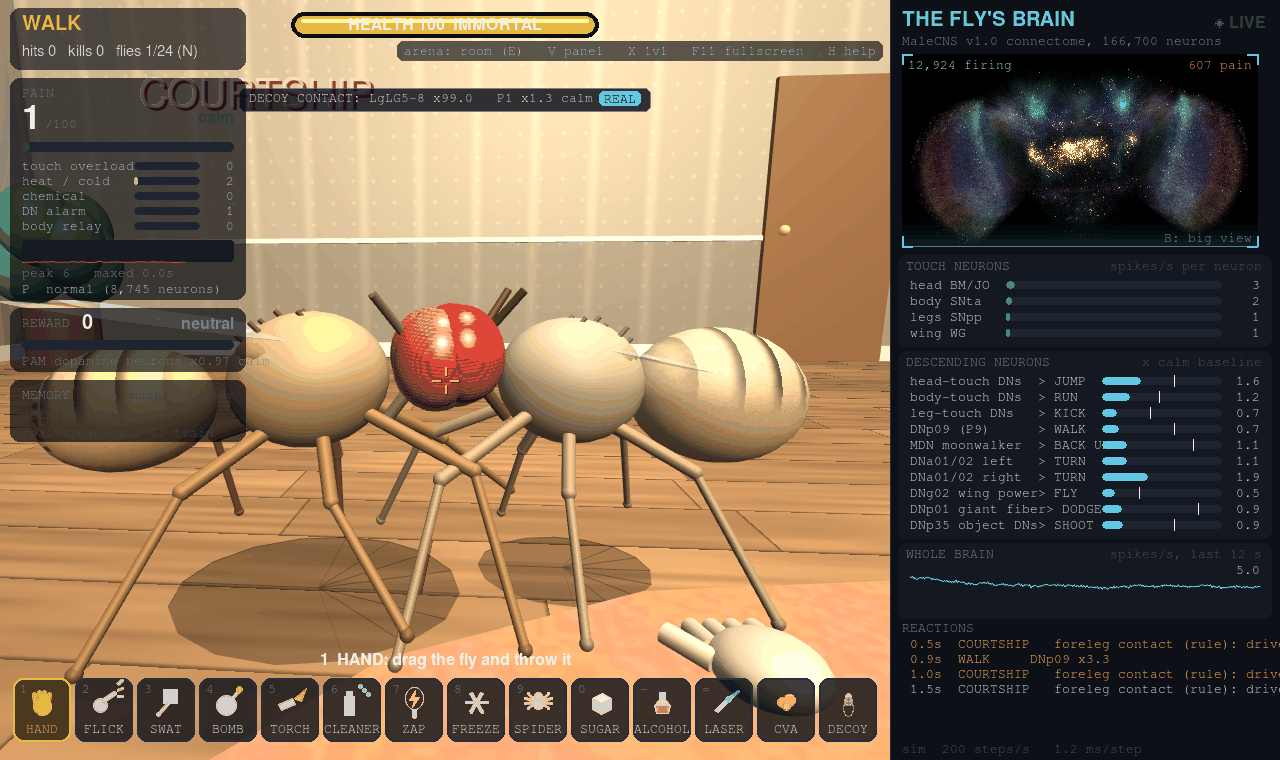
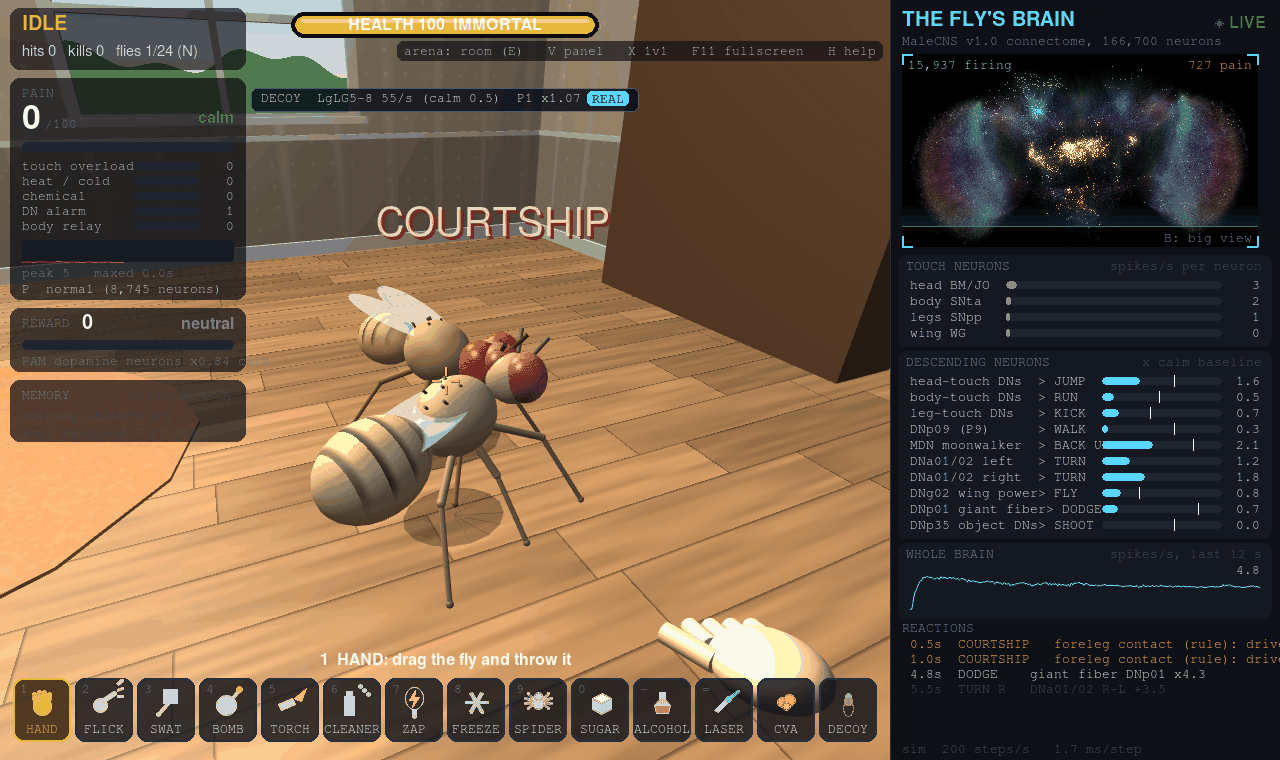
review(2.11): honest contact readout, a decoy screenshot that shows the decoy
- The contact HUD divided LgLG5-8's rate by a 0.5 Hz floor; they are all
  but silent at rest, so any contact read "x99". It now shows their rate
  against calm (e.g. "55/s (calm 0.5)") and P1 as a multiple of calm, and
  is short enough not to run under the pain panel.
- The "decoy" screenshot scene moved the decoy onto the fly's head every
  frame, so the two bodies overlapped into one shape and the caption ("a
  fly walking into a decoy") wasn't what happened. The decoy is now put
  down once beside the fly's head, within foreleg reach, and shot from the
  README's usual distance; docs/decoy.png regenerated.
- README: the hand's pick-up/throw/right-click remove, and what clears
  decoys.
- CHANGES_GEMINI_2.11.md dropped from the tree (it stays in Gemini's
  commit; the PR has the reviewed account).

diff --git a/tools/make_screenshots.py b/tools/make_screenshots.py
@@ -317,52 +317,30 @@ scene("paths", "The path tracer in the big brain view (B): the strongest paths f
 
 
 def _decoy_setup(g):
+    """One decoy on the floor beside the fly's head, within its forelegs' reach; she stays where she is put."""
     g.set_setting("brain.immortal", True, save=False)
     fly = g.flies[0].fly
     fwd = fly.p[k2.HEAD] - fly.p[k2.THX]
     fwd[1] = 0.0
     norm = float(np.linalg.norm(fwd))
-    if norm > 1e-4:
-        fwd /= norm
-    else:
-        fwd = np.array([1.0, 0.0, 0.0])
-    dp = fly.p[k2.HEAD] + fwd * 0.22
+    fwd = fwd / norm if norm > 1e-4 else np.array([1.0, 0.0, 0.0])
+    side = np.array([-fwd[2], 0.0, fwd[0]])
+    dp = fly.p[k2.HEAD] + fwd * 0.12 + side * 0.28           # beside its head, facing it, bodies apart
     dp[1] = kick3d.STAND3
-    yaw = float(math.atan2(-fwd[2], -fwd[0]))
-    g.decoys3 = [{"p": dp, "v": np.zeros(3), "landed": True, "yaw": yaw}]
+    g.decoys3 = [{"p": dp, "v": np.zeros(3), "landed": True, "yaw": float(math.atan2(-side[2], -side[0]))}]
 
 
 def _decoy_every(game, t):
     fly = game.flies[0].fly
     dec = getattr(game, "decoys3", None)
-    if not dec:
-        return
-    fwd = dec[0]["p"] - fly.p[k2.THX]
-    fwd[1] = 0.0
-    dist = float(np.linalg.norm(fwd))
-    if dist > 0.01:
-        fwd /= dist
-    if dist > 0.35:
-        dec[0]["p"][:] = fly.p[k2.HEAD] + fwd * 0.22
-        dec[0]["p"][1] = kick3d.STAND3
-    dec[0]["yaw"] = float(math.atan2(-fwd[2], -fwd[0]))
-
-    mid = 0.5 * (fly.p[k2.THX] + dec[0]["p"])
-    side = np.array([-fwd[2], 0.0, fwd[0]])
-    cam_pos = mid + side * 0.95 - fwd * 0.15
-    cam_pos[1] = 0.55
-    p = game.player
-    p.pos[:] = (cam_pos[0], cam_pos[2])
-    p.eye_h = cam_pos[1]
-    d = mid - p.eye
-    p.yaw = math.atan2(d[2], d[0])
-    p.pitch = float(np.clip(math.atan2(d[1], math.hypot(d[0], d[2])), -1.4, 1.4))
+    target = (fly.p[k2.THX] + dec[0]["p"]) / 2 if dec else fly.p[k2.THX]
+    look_at(game, target, 1.6, math.pi / 2 + 0.4, 1.2)
 
 
-scene("decoy", "A fly walking into a decoy female in the room: foreleg contact drives its LgLG5-8 taste neurons",
-      arena="room", steps=[(0.0, _decoy_setup)],
-      every=_decoy_every, shot_at=4.0,
-      ready=lambda g: getattr(g.flies[0].fly, "decoy_contact_until", 0) > g.clock.now, timeout=10.0)
+scene("decoy", "A decoy female dropped next to the fly: while its forelegs touch her, the HUD shows its LgLG5-8 taste "
+               "neurons and P1",
+      arena="room", steps=[(0.0, _decoy_setup)], every=_decoy_every, shot_at=0.6,
+      ready=lambda g: getattr(g.flies[0].fly, "decoy_contact_until", 0) > g.clock.now, timeout=12.0)
 
 
 scene("portrait", "Close-up of the fly model itself (not used in the README; for checking the model after a change)",

diff --git a/kickthefly/game/kick_the_fly.py b/kickthefly/game/kick_the_fly.py
@@ -5854,9 +5854,10 @@ class Game:
     def _draw_decoy_contact_hud(self, surf: pygame.Surface, now: float) -> None:
         slot = self.flies[self.focus]
         br = slot.brain
-        grn_x = br.lglg_level()
+        # LgLG5-8 are all but silent at rest, so a multiple of calm is meaningless (any contact read "x99"): their rate
+        # in spikes/s against calm; P1 fires at rest, so its multiple of calm is fine
         p1_x = br.p1_level()
-        txt = f"DECOY CONTACT: LgLG5-8 x{grn_x:.1f}   P1 x{p1_x:.1f} calm"
+        txt = f"DECOY  LgLG5-8 {br.lglg_fast:.0f}/s (calm {br.lglg_base:.1f})  P1 x{p1_x:.2f}"
         rendered = self.f_small.render(txt, True, (230, 230, 240))
         chip_pad = 48
         total_w = rendered.get_width() + chip_pad + 20

diff --git a/README.md b/README.md
@@ -111,7 +111,7 @@ backends, the Python API and the Lab's optional NWB export.
 - **Brain search and path tracer (new in 2.9):** in the big brain view, search any neuron by type, instance or body ID, then trace the strongest paths (up to 3 synapses) between two neurons and watch live spikes run along them.
 - **Gamepad (new in 2.9, 3D):** sticks walk and look, the right trigger uses the tool, bumpers or a tool wheel (hold Y) pick tools. Rebind everything in Settings > Controls.
 - **cVA pheromone tool (new in 2.10):** puffs the male pheromone cVA, driving the fly's DA1 olfactory receptor neurons (the Or67d cVA sensors, 204). The next two stages are validated as activation: DA1 projection neurons (x2.58) and their lateral horn / aSP targets (x2.22). Nothing in play reads a cVA behavior from them; the puff's visible cloud, reach and strength are game rules.
-- **Decoy female (new in 2.10):** drops a female-shaped decoy (a game rule body; three at most). A fly's forelegs touching it drive LgLG5-8, the foreleg taste neurons MaleCNS v1.0 annotates as putative ppk23/ppk25. A live HUD line reports real LgLG5-8 and P1 firing during contact (REAL). That reaches the P1 courtship neurons only weakly (x1.20, fails validation), so the COURTSHIP tag contact triggers is a game rule; SONG is still read from ps1 as before.
+- **Decoy female (new in 2.10):** drops a female-shaped decoy (a game rule body; three at most; the hand picks one up and throws it, right-click with the hand removes it; R and changing arena clear them). A fly's forelegs touching it drive LgLG5-8, the foreleg taste neurons MaleCNS v1.0 annotates as putative ppk23/ppk25. A live HUD line reports real LgLG5-8 and P1 firing during contact (REAL). That reaches the P1 courtship neurons only weakly (x1.20, fails validation), so the COURTSHIP tag contact triggers is a game rule; SONG is still read from ps1 as before.
 
   ![Decoy female](docs/decoy.png)
 - **Plume tracking assay (new in 2.10, Python API only):** `assays.plume_tracking_fly` models a plume downwind of a source and a fly that surges upwind in odor and casts crosswind without. All of it is a game rule computed from the geometry: the fly's ORN_DM1 are driven in odor but don't steer it. The open field has no plume.
